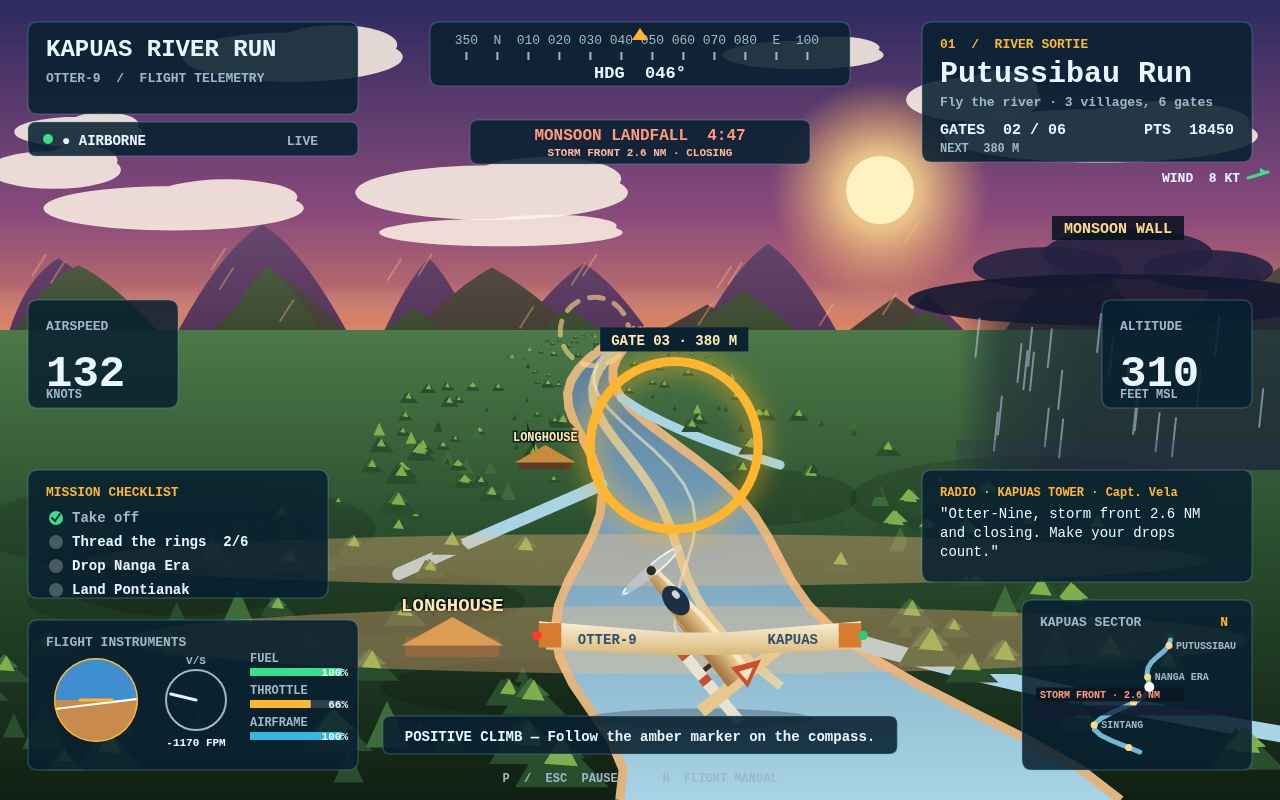
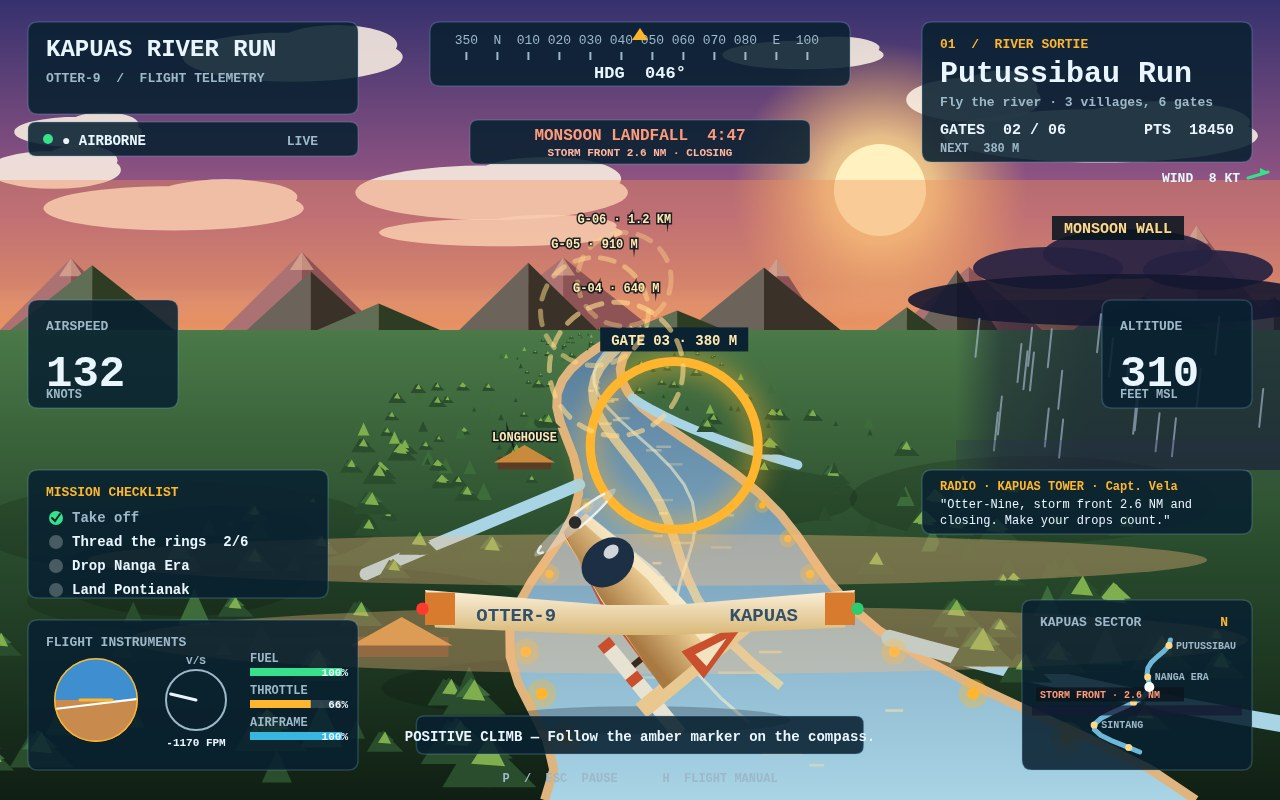
v5: round-2 fix pass — bigger plane, 4-ring chain, faceted ridges, wider glittering river, slim radio, cockpit ring fix

diff --git a/game/world.js b/game/world.js
@@ -25,7 +25,7 @@ const SKIES = {
   },
   sunset: {
     name: 'GOLDEN SUNSET',
-    top: '#2c2a5e', mid: '#8a4a7d', low: '#f0915a',
+    top: '#35316e', mid: '#a05a86', low: '#f7ab62',
     sun: '#ffd98a', sunCore: '#fff2c0', haze: 'rgba(240,145,90,0.4)',
     ridgeFar: '#6b4a72', ridgeMid: '#5a5248', ridgeNear: '#4d5c43', forest: '#3d6b3a',
     forestDark: '#2a4d2e', forestLight: '#7fae4e', water: '#557a99',
@@ -47,7 +47,7 @@ const SKIES = {
 function riverCenter(t) {
   return 120 * Math.sin(t * 5.2 + 0.8) + 60 * Math.sin(t * 11.3 + 2.1);
 }
-function riverHalfWidth(t) { return 150 - 105 * t; } // narrows toward horizon
+function riverHalfWidth(t) { return 195 - 125 * t; } // v5: river 2x wider // narrows toward horizon
 
 // Villages along the river. side: -1 left bank, +1 right bank, 0 on the water.
 const VILLAGES = [
@@ -141,40 +141,43 @@ function drawClouds(ctx, sky, seedOff) {
   ctx.fillRect(0, HORIZON - 44, 1280, 70);
 }
 
+// Faceted low-poly ridges (v5): each mountain is a pair of triangles —
+// sunlit left face, shadowed right face — so the valley reads as real 3D
+// terrain like the neighbours' renders, not flat silhouettes. The far
+// layer gets a haze wash for atmospheric perspective.
 function drawRidges(ctx, sky) {
   for (const ridge of RIDGES) {
     const r = mulberry32(ridge.seed);
     const col = ridge.col === 'far' ? sky.ridgeFar : ridge.col === 'mid' ? sky.ridgeMid : sky.ridgeNear;
-    // Gradient fill: hazy light at the peaks, darker at the base — depth,
-    // not a flat triangle.
-    const rg = ctx.createLinearGradient(0, HORIZON - ridge.amp - 20, 0, HORIZON + 40);
-    rg.addColorStop(0, col);
-    rg.addColorStop(1, shade(col, -28));
-    ctx.fillStyle = rg;
-    ctx.beginPath(); ctx.moveTo(0, HORIZON + 40);
+    const baseY = HORIZON + 40;
     let x = -40;
     while (x < 1320) {
-      const w = 110 + r() * 170;
+      const w = 130 + r() * 180;
       const peak = HORIZON - 16 - r() * ridge.amp;
-      // Rounded peak: quadratic shoulders instead of a sharp spike.
-      ctx.quadraticCurveTo(x + w * 0.28, peak + 26, x + w / 2, peak);
-      ctx.quadraticCurveTo(x + w * 0.72, peak + 26, x + w, HORIZON + 30 + r() * 20);
+      const midX = x + w / 2;
+      // Sunlit face.
+      ctx.fillStyle = shade(col, 18);
+      ctx.beginPath();
+      ctx.moveTo(x, baseY); ctx.lineTo(midX, peak); ctx.lineTo(midX, baseY);
+      ctx.closePath(); ctx.fill();
+      // Shadow face.
+      ctx.fillStyle = shade(col, -32);
+      ctx.beginPath();
+      ctx.moveTo(midX, peak); ctx.lineTo(x + w, baseY); ctx.lineTo(midX, baseY);
+      ctx.closePath(); ctx.fill();
+      // Snow / sun glint on the highest peaks.
+      if (peak < HORIZON - 70) {
+        ctx.fillStyle = 'rgba(255,240,220,0.5)';
+        ctx.beginPath();
+        ctx.moveTo(midX - 12, peak + 18); ctx.lineTo(midX, peak); ctx.lineTo(midX + 12, peak + 18);
+        ctx.closePath(); ctx.fill();
+      }
       x += w;
     }
-    ctx.lineTo(1320, HORIZON + 40); ctx.closePath(); ctx.fill();
-    // Warm rim light on the sun side of each peak.
-    ctx.strokeStyle = 'rgba(255,200,120,0.35)'; ctx.lineWidth = 2;
-    ctx.beginPath();
-    const r2 = mulberry32(ridge.seed);
-    x = -40;
-    while (x < 1320) {
-      const w = 90 + r2() * 160;
-      const peak = HORIZON - 20 - r2() * ridge.amp;
-      ctx.moveTo(x + w / 2 - 14, peak + 22);
-      ctx.lineTo(x + w / 2, peak);
-      x += w;
+    if (ridge.col === 'far') {
+      ctx.fillStyle = sky.haze;
+      ctx.fillRect(0, HORIZON - 150, 1280, 190);
     }
-    ctx.stroke();
   }
 }
 
@@ -245,6 +248,16 @@ function drawRiver(ctx, sky, camT) {
     if (i === 0) ctx.moveTo(p.x, p.y); else ctx.lineTo(p.x, p.y);
   }
   ctx.stroke();
+  // Sun glitter (v5): seeded gold dashes on the water, concentrated along
+  // the sun's path down the river — the neighbours' water glitters.
+  const gr = mulberry32(31);
+  for (let i = 0; i < 30; i++) {
+    const t = 0.04 + gr() * 0.72;
+    const p = project(t, riverCenter(t) + (gr() - 0.5) * riverHalfWidth(t) * 1.1);
+    const w = (10 + gr() * 34) * p.s;
+    ctx.fillStyle = 'rgba(255,226,160,' + (0.25 + gr() * 0.4).toFixed(2) + ')';
+    ctx.fillRect(p.x - w / 2, p.y, w, 2.5);
+  }
   // Sandy banks.
   ctx.strokeStyle = sky.sand; ctx.lineWidth = 9;
   for (const side of [-1, 1]) {
@@ -271,6 +284,23 @@ function drawTributaries(ctx, sky) {
       if (i === 0) ctx.moveTo(p.x, p.y); else ctx.lineTo(p.x, p.y);
     }
     ctx.stroke();
+  }
+}
+
+// The marked water landing lane (v5): amber buoys down both banks of the
+// river from the next gate to the camera — the runway-equivalent ahead
+// that the neighbours always show, on the water instead of asphalt.
+function drawSeaLane(ctx, sky) {
+  for (const side of [-1, 1]) {
+    for (let i = 0; i < 7; i++) {
+      const t = 0.08 + i * 0.06;
+      const p = project(t, riverCenter(t) + side * (riverHalfWidth(t) - 14));
+      const r = Math.max(2.5, 5.5 * p.s);
+      ctx.fillStyle = 'rgba(255,182,46,0.35)';
+      ctx.beginPath(); ctx.arc(p.x, p.y, r * 2.4, 0, Math.PI * 2); ctx.fill();
+      ctx.fillStyle = '#ffb62e';
+      ctx.beginPath(); ctx.arc(p.x, p.y, r, 0, Math.PI * 2); ctx.fill();
+    }
   }
 }
 
@@ -307,7 +337,9 @@ function drawForest(ctx, sky) {
   }
 }
 
-function drawLonghouses(ctx, sky) {
+// skipLabel(lx, ly) — optional predicate; labels under the plane (chase
+// scene) are dropped instead of being half-covered by the wing (v5).
+function drawLonghouses(ctx, sky, skipLabel) {
   for (const lh of LONGHOUSES) {
     const p = project(lh.t, riverCenter(lh.t) + lh.side * (riverHalfWidth(lh.t) + 90));
     const w = 74 * p.s + 18, h = 20 * p.s + 8;
@@ -321,11 +353,12 @@ function drawLonghouses(ctx, sky) {
     ctx.closePath(); ctx.fill();
     ctx.font = 'bold ' + Math.max(12, Math.round(13 * p.s + 6)) + 'px monospace';
     ctx.textAlign = 'center';
-    if (p.x <= 820) { // never let the label run under the radio panel
+    const lx = p.x, ly = p.y - h * 1.9;
+    if (p.x <= 820 && !(skipLabel && skipLabel(lx, ly))) { // never let the label run under the radio panel
       ctx.strokeStyle = 'rgba(10,20,30,0.85)'; ctx.lineWidth = 3;
-      ctx.strokeText(lh.label, p.x, p.y - h * 1.9);
+      ctx.strokeText(lh.label, lx, ly);
       ctx.fillStyle = '#ffe9b0';
-      ctx.fillText(lh.label, p.x, p.y - h * 1.9);
+      ctx.fillText(lh.label, lx, ly);
     }
   }
 }

diff --git a/game/main.js b/game/main.js
@@ -23,43 +23,61 @@ function sky() { return SKIES[SKY_KEYS[state.skyMode]]; }
 function drawChaseScene() {
   const sk = sky();
   const f = state.flight;
-  const sunX = 880, sunY = 190, sunR = 34;
+  const sunX = 880, sunY = 190, sunR = 46; // v5: bigger golden-hour sun
   drawSky(ctx, sk, sunX, sunY, sunR);
   drawClouds(ctx, sk, 2);
   drawRidges(ctx, sk);
   drawGround(ctx, sk);
   drawRiver(ctx, sk, f.t);
   drawTributaries(ctx, sk);
+  drawSeaLane(ctx, sk); // v5: marked water lane, the runway-equivalent
   drawForest(ctx, sk);
-  drawLonghouses(ctx, sk);
+  // The plane's screen box (v5): any label inside it is dropped, not drawn
+  // half-covered by the wing/fuselage (the v5 "LONGHO" clip).
+  const planeBox = (x, y) => x > 340 && x < 930 && y > 460 && y < 740;
+  drawLonghouses(ctx, sk, planeBox);
   drawMist(ctx, sk, f.time * 0.05);
   // Storm first, then rings, then the plane — nothing important is ever
   // painted over by the curtain.
   drawStormFront(ctx, sk, state.stormT);
-  // Amber gate rings: the next ring big and lit, the following one dashed.
-  // FIX (v4): with the corrected projection the next ring sits UP the frame
-  // toward the horizon, well clear of the plane; the dashed preview is two
-  // gates ahead so it never crowds the main ring.
-  const g1 = GATES[state.mission.gatesPassed % GATES.length];
-  const g2 = GATES[(state.mission.gatesPassed + 2) % GATES.length];
-  const p1 = project(g1.t, g1.x);
-  const p2 = project(g2.t, g2.x);
-  drawGate(ctx, p2.x, p2.y - 40, 46 * p2.s + 26, null, true, 0.8);
-  drawGate(ctx, p1.x, p1.y - 60, 78 * p1.s + 40, null, false, 1);
-  // The plane: 300 wide (~23% of the frame), lower-centre, on the river,
+  // Amber gate rings (v5): a chain of four, labelled with distances,
+  // shrinking toward the horizon — the route reads as depth, not one ring.
+  // v4 showed one ring + one dashed preview; the neighbours show 4-5
+  // labelled rings (G-03 528m, G-04 784m...) — the chain is the win.
+  const ringDists = ['380 M', '640 M', '910 M', '1.2 KM'];
+  const gp = state.mission.gatesPassed;
+  const ringPts = [];
+  for (let i = 0; i < 4; i++) {
+    const g = GATES[(gp + i) % GATES.length];
+    const p = project(g.t, g.x);
+    const r = 78 * p.s + 40;
+    ringPts.push({ x: p.x, y: p.y - 60, r });
+    drawGate(ctx, p.x, p.y - 60, r, null, i > 0, 1 - i * 0.16);
+    if (i === 0) {
+      drawGateTag(ctx, p.x, p.y - 60, r, 'GATE 0' + g.n + ' · ' + ringDists[i]);
+    } else {
+      ctx.save();
+      ctx.font = 'bold 12px monospace'; ctx.textAlign = 'center';
+      ctx.strokeStyle = 'rgba(10,20,30,0.9)'; ctx.lineWidth = 3;
+      const lab = 'G-0' + g.n + ' · ' + ringDists[i];
+      ctx.strokeText(lab, p.x, p.y - 60 - r - 10);
+      ctx.fillStyle = '#ffe9b0';
+      ctx.fillText(lab, p.x, p.y - 60 - r - 10);
+      ctx.restore();
+    }
+  }
+  // The plane: 400 wide (~31% of the frame), lower-centre, on the river,
   // nose pointing up-left toward the ring — never dead centre, never
-  // covering the ring or its label.
-  drawPlane(ctx, 700, 625, 300, 0, f.time * 9);
-  // Gate label on top of the plane — never hidden behind the fuselage.
-  drawGateTag(ctx, p1.x, p1.y - 60, 78 * p1.s + 40, 'GATE 0' + g1.n + ' · 380 M');
+  // covering the ring or its label. (v5: 300 was too small to read.)
+  drawPlane(ctx, 640, 595, 400, 0, f.time * 9);
   // Village labels on the near bank — never inside the radio panel zone,
   // never within 140 px of a gate ring.
   for (const v of VILLAGES) {
     if (v.t < 0.15 || v.t > 0.85) continue;
     const p = project(v.t, riverCenter(v.t) + (v.side || 1) * (riverHalfWidth(v.t) + 60));
     if (p.x > 830) continue;
-    if (Math.abs(p.x - p1.x) < 140 && Math.abs(p.y - (p1.y - 60)) < 90) continue;
-    if (Math.abs(p.x - p2.x) < 120 && Math.abs(p.y - (p2.y - 40)) < 70) continue;
+    if (ringPts.some((rp) => Math.abs(p.x - rp.x) < 140 && Math.abs(p.y - rp.y) < 90)) continue;
+    if (planeBox(p.x, p.y - 14)) continue; // never under the plane (v5)
     ctx.font = 'bold 13px monospace'; ctx.textAlign = 'center';
     ctx.strokeStyle = 'rgba(10,20,30,0.85)'; ctx.lineWidth = 3;
     ctx.strokeText(v.name + ' · ' + v.cargo, p.x, p.y - 14);

diff --git a/game/plane.js b/game/plane.js
@@ -62,12 +62,14 @@ function drawPlane(ctx, cx, cy, w, angle, propPhase) {
   ctx.fillStyle = 'rgba(10,25,40,0.26)';
   ctx.beginPath(); ctx.ellipse(0, 100 * u, 120 * u, 11 * u, 0, 0, Math.PI * 2); ctx.fill();
   // Floats: two pontoons parallel to the fuselage, on the ground side.
+  // Struts + floats sit on the WIDENED fuselage's ground side (v5): the
+  // strut feet and the pontoons move 13u down-left with the new edge.
   ctx.strokeStyle = '#3a2c1c'; ctx.lineWidth = 5 * u;
   ctx.beginPath();
-  ctx.moveTo(10.6 * u, 43.1 * u); ctx.lineTo(-0.2 * u, 52 * u);
-  ctx.moveTo(32.9 * u, 70.1 * u); ctx.lineTo(22.1 * u, 79 * u);
+  ctx.moveTo(0.6 * u, 51.4 * u); ctx.lineTo(-10.2 * u, 60.3 * u);
+  ctx.moveTo(22.9 * u, 78.4 * u); ctx.lineTo(12.1 * u, 87.3 * u);
   ctx.stroke();
-  for (const [fx, fy] of [[-0.2, 52], [22.1, 79]]) {
+  for (const [fx, fy] of [[-10.2, 60.3], [12.1, 87.3]]) {
     ctx.save();
     ctx.translate(fx * u, fy * u); ctx.rotate(-2.26);
     ctx.fillStyle = '#e8e2d2';
@@ -87,6 +89,15 @@ function drawPlane(ctx, cx, cy, w, angle, propPhase) {
   ctx.moveTo(81.2 * u, 17.1 * u); ctx.lineTo(90.2 * u, 27.9 * u);
   ctx.lineTo(5.4 * u, 97.9 * u); ctx.lineTo(-3.6 * u, 87.1 * u);
   ctx.closePath(); ctx.fill();
+  // Widen the fuselage (v5): scale x1.9 perpendicular to the fuselage axis
+  // so the body has real mass at 768x480 instead of reading as a pencil.
+  // Axis midpoint M=(-5,-1), axis angle -2.259 rad.
+  ctx.save();
+  ctx.translate(-5 * u, -1 * u);
+  ctx.rotate(-2.259);
+  ctx.scale(1, 1.9);
+  ctx.rotate(2.259);
+  ctx.translate(5 * u, 1 * u);
   // Fuselage: long tapered body, sun-lit sky side, shadowed ground side.
   const fg = ctx.createLinearGradient(20.4 * u, -13.7 * u, -10.4 * u, 11.7 * u);
   fg.addColorStop(0, '#f7ead0'); fg.addColorStop(0.5, '#e8c88f'); fg.addColorStop(1, '#a87a42');
@@ -132,6 +143,7 @@ function drawPlane(ctx, cx, cy, w, angle, propPhase) {
   ctx.beginPath();
   ctx.moveTo(41.5 * u, 49.5 * u); ctx.lineTo(56.5 * u, 45.2 * u); ctx.lineTo(50.3 * u, 59.5 * u);
   ctx.closePath(); ctx.fill();
+  ctx.restore(); // end of the widened-fuselage group (v5)
   // Main wing: horizontal, clear dihedral, shaded top, orange tips.
   const wg = ctx.createLinearGradient(0, 0, 0, 32 * u);
   wg.addColorStop(0, '#f7ead0'); wg.addColorStop(1, '#d9b878');

diff --git a/game/screens.js b/game/screens.js
@@ -92,11 +92,13 @@ function drawCockpit(ctx, f, m, sky, stormT) {
   drawRunway(ctx, 640, 350, 428, 26, 150, '27');
   // Green HUD ladder + gate ring over the runway.
   ctx.strokeStyle = 'rgba(120,255,190,0.85)'; ctx.lineWidth = 3;
-  ctx.beginPath(); ctx.arc(640, 300, 80, 0, Math.PI * 2); ctx.stroke();
-  ctx.beginPath(); ctx.arc(640, 300, 56, 0, Math.PI * 2); ctx.stroke();
+  // FIX (v5): the ring's bottom arc crossed the runway "27" numerals.
+  // Ring moved up (centre 284, r 76/54) and the labels sit above it.
+  ctx.beginPath(); ctx.arc(640, 284, 76, 0, Math.PI * 2); ctx.stroke();
+  ctx.beginPath(); ctx.arc(640, 284, 54, 0, Math.PI * 2); ctx.stroke();
   ctx.font = 'bold 13px monospace'; ctx.fillStyle = '#7dffbe'; ctx.textAlign = 'center';
-  ctx.fillText('GATE 6 · 0.2 NM', 640, 190);
-  ctx.fillText('RWY 27 LINEUP', 640, 214);
+  ctx.fillText('GATE 6 · 0.2 NM', 640, 166);
+  ctx.fillText('RWY 27 LINEUP', 640, 188);
   // Canopy frame pillars.
   ctx.fillStyle = '#0c141c';
   ctx.fillRect(0, 0, 90, 430);

diff --git a/game/hud.js b/game/hud.js
@@ -212,10 +212,13 @@ function drawFooter(ctx) {
 }
 
 function drawRadio(ctx, m) {
-  panel(ctx, 922, 470, 330, 112, 10);
-  label(ctx, 'RADIO · ' + m.radio.from, 940, 496, 12, AMBER);
-  ctx.fillStyle = INK; ctx.font = '14px monospace'; ctx.textAlign = 'left';
-  wrapText(ctx, '"' + m.radio.text + '"', 940, 518, 294, 19);
+  // Slim two-line radio (v5): 64px tall in its v4 zone (y 470), clear of
+  // the WIND label (y 182) and the MONSOON WALL label (y 216-240) — the
+  // first v5 placement at y 170 collided with both.
+  panel(ctx, 922, 470, 330, 64, 10);
+  label(ctx, 'RADIO · ' + m.radio.from, 940, 490, 12, AMBER);
+  ctx.fillStyle = INK; ctx.font = '12px monospace'; ctx.textAlign = 'left';
+  wrapText(ctx, '"' + m.radio.text + '"', 940, 508, 294, 16);
 }
 
 function wrapText(ctx, text, x, y, maxW, lh) {
